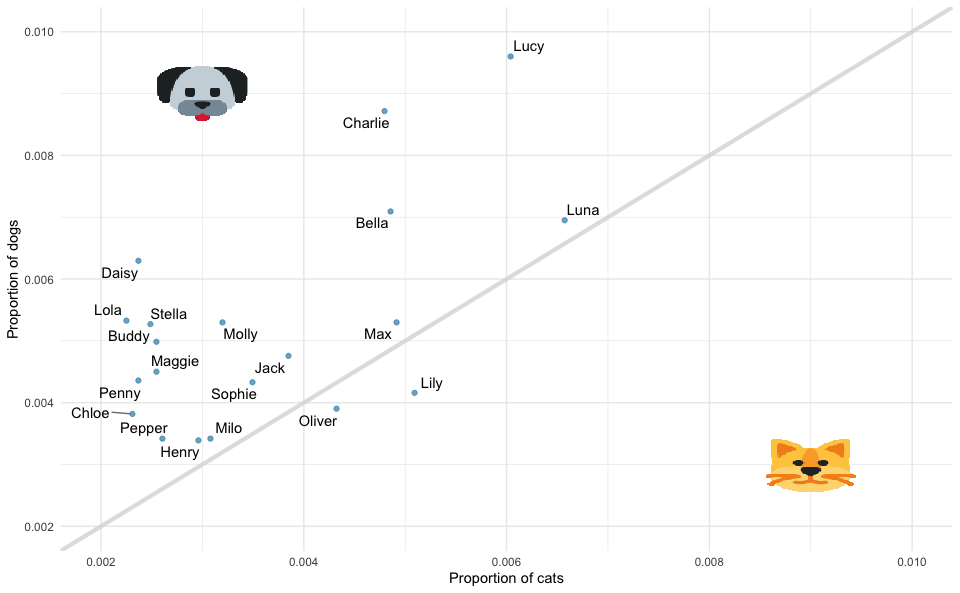
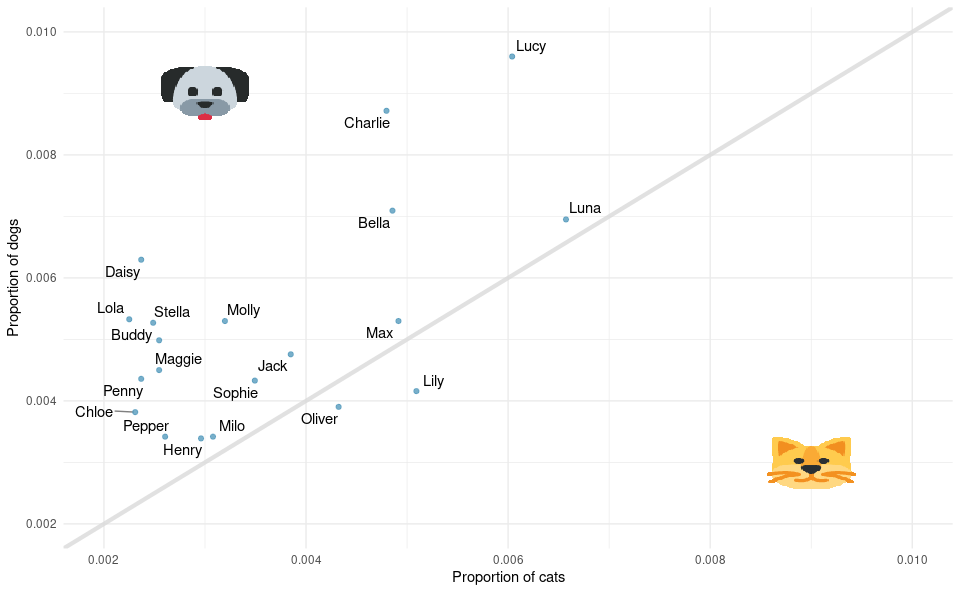
Added library(ggrepel) and library(image) to README.qmd

diff --git a/README.md b/README.md
@@ -329,6 +329,7 @@ seattlepets %>%
      9 Dog     Max           186
     10 Dog     Molly         186
     # … with 16,813 more rows
+    # ℹ Use `print(n = ...)` to see more rows
 
 But this output isn’t exactly what we wanted. We wanted to know the most
 common cat and dog names, but there are barely any cats present in this
@@ -382,6 +383,7 @@ seattlepets %>%
      9 Dog     Luna          244
     10 Dog     Daisy         221
     # … with 43 more rows
+    # ℹ Use `print(n = ...)` to see more rows
 
 4.  Based on the previous output we can easily identify the most common
     cat and dog names in Seattle, but the output is sorted by `n` (the
